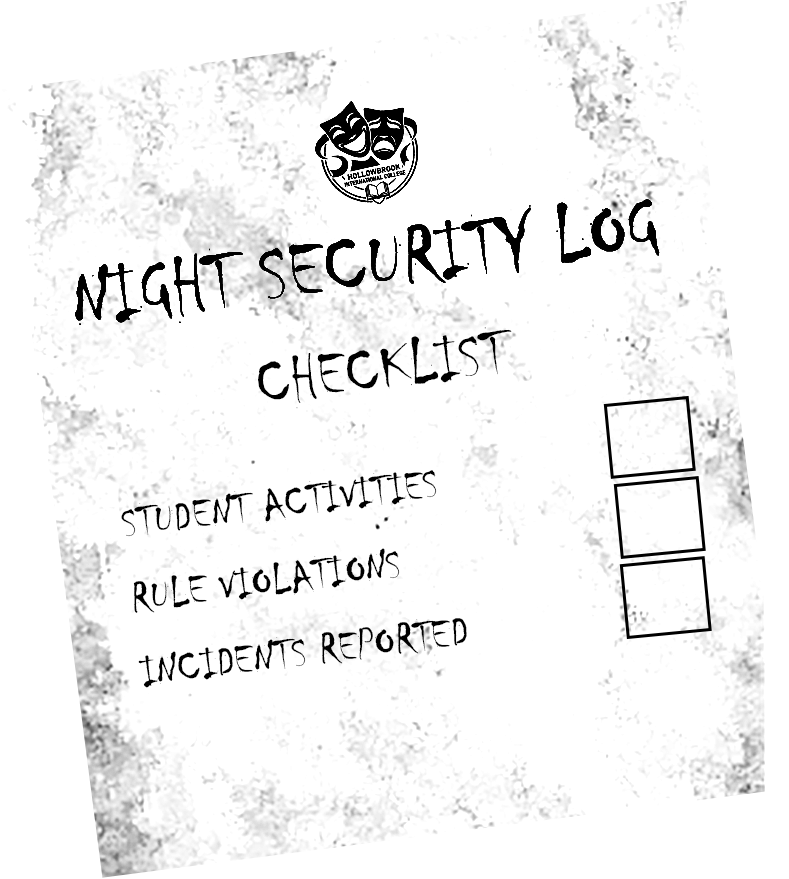
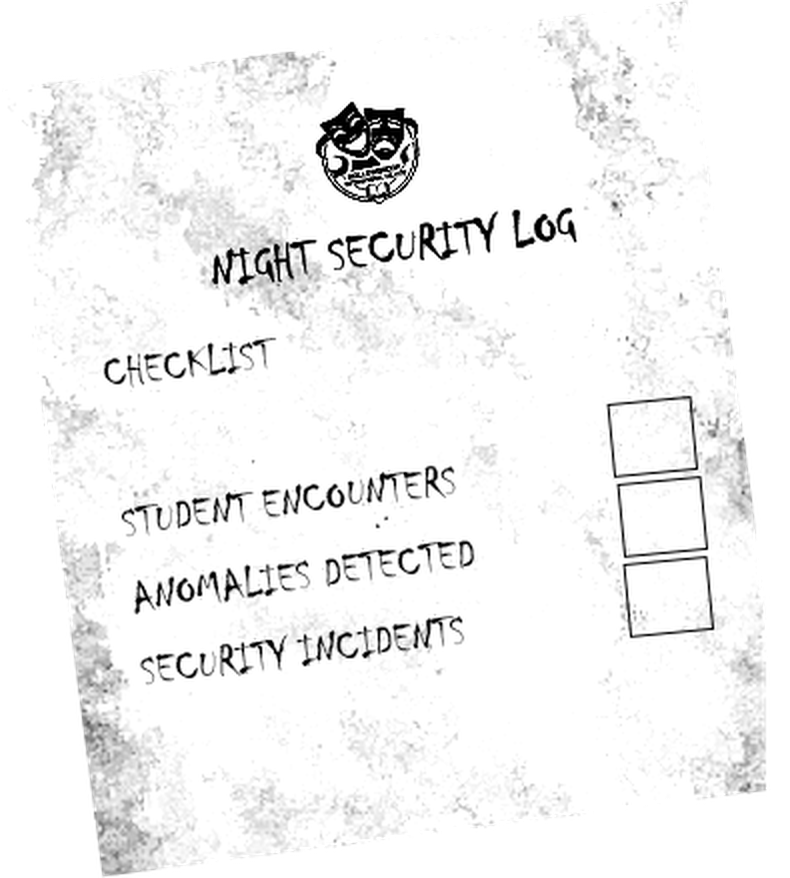
Rules and Security Log props use the new art, the sheets use the flat papers
The desk props are now Rules.png and SecurityLog_1.png (sec_rules_prop, sec_log_prop), drawn without
stretching and without extra tilt because the pictures are already tilted. Clicking them opens
Rules Paper.png and SecurityLog.png (doubled in size so it matches the sharpness of the rules paper).
The three log boxes sit on the squares printed on the new paper, the typed slip is a little taller,
and the base rules text is shorter so the night's own rules are not pushed out of view.

Changed region(s): [[0.0913, 0.123, 0.8517, 0.4613], [0.1521, 0.5228, 0.6084, 0.7995], [0.7605, 0.4305, 0.9125, 0.738]]

diff --git a/Assets/_Project/Scripts/Checkpoint/CheckpointView.Overlays.cs b/Assets/_Project/Scripts/Checkpoint/CheckpointView.Overlays.cs
@@ -83,10 +83,10 @@ namespace Hollowbrook.Checkpoint
         // the player counts what they notice. Left click counts up, right click counts down. It is only a
         // record for the experience: nothing reads it. Each box is a plain object under OverlayLog/paper, so
         // when the paper art changes the boxes can simply be moved in the scene. Centres are fractions of the
-        // paper picture, measured on the 789x879 art.
+        // paper picture, measured on the SecurityLog art (789x879 after the 2x cut).
         private readonly Text[] _logCounts = new Text[GameSession.LogEntries];
         private static readonly Vector2[] LogBoxCentres =
-            { new Vector2(0.825f, 0.497f), new Vector2(0.830f, 0.588f), new Vector2(0.843f, 0.679f) };
+            { new Vector2(0.822f, 0.498f), new Vector2(0.836f, 0.589f), new Vector2(0.848f, 0.680f) };
         private static readonly string[] LogBoxNames = { "student_encounters", "anomalies_detected", "security_incidents" };
 
         private void BuildLogBoxes()
@@ -162,10 +162,7 @@ namespace Hollowbrook.Checkpoint
         private void RefreshNotes()
         {
             var sb = new StringBuilder();
-            sb.Append("BASE RULES - Every person presents a Student ID and record form.\n");
-            sb.Append("Verify: ID format (HB-YYYY-NNNN) · photo vs. the person · expiration · year level · course/program · Regular/Transferee status · record name.\n");
-            sb.Append("Ask which classroom they are going to, then check the answer against their file in the drawer. Decisions are permanent.\n");
-            sb.Append("Compare the face at the window with the ID photo yourself - the desk keeps no appearance form.\n\n");
+            sb.Append("BASE RULES - Check every ID against the file in the drawer: number format, photo, expiry, year, course, status, name. Ask where they are going and check that too. Decisions are permanent.\n\n");
             if (_shift != null) { sb.Append(_shift.RuleNoteAddendum).Append('\n'); }
             _notesText.text = sb.ToString();
         }

diff --git a/Assets/_Project/Scripts/Checkpoint/CheckpointView.Decision.cs b/Assets/_Project/Scripts/Checkpoint/CheckpointView.Decision.cs
@@ -72,7 +72,7 @@ namespace Hollowbrook.Checkpoint
             // is manual: documents, floor files and questions.)
             // the two desk papers are PROPS: the kit's printed sheets lying on the desk at
             // the concept art's angles, clickable to open their overlay sheet
-            _recordsBtn = PaperProp("records", "sec_log_paper",
+            _recordsBtn = PaperProp("records", "sec_log_prop",
                 () => { RefreshRecords(); ToggleOverlay(_recordsRoot); }, L.UtilityRecords, L.TiltLog);
             Reg("records", _recordsBtn, L.UtilityRecords);
             // the mockup's inline college map: a panel-button (click still opens the full
@@ -123,7 +123,7 @@ namespace Hollowbrook.Checkpoint
                 L.Place(tape.rectTransform, new L.Region(tI == 0 ? -8f : 244f, -6f, 46f, 14f));
                 tape.rectTransform.localEulerAngles = new Vector3(0, 0, tI == 0 ? 8f : -8f);
             }
-            _notesBtn = PaperProp("notes", "sec_rules_paper",
+            _notesBtn = PaperProp("notes", "sec_rules_prop",
                 () => ToggleOverlay(_notesRoot), L.UtilityNotes, L.TiltRules);
             Reg("notes", _notesBtn, L.UtilityNotes);
 
@@ -142,6 +142,7 @@ namespace Hollowbrook.Checkpoint
             if (sp != null) { img.sprite = sp; img.color = Color.white; }
             else img.color = UIFactory.Paper;
             img.raycastTarget = true;
+            img.preserveAspect = true;   // the prop pictures are narrower than their desk slot: never stretch them
             var b = rt.gameObject.GetOrAdd<UnityEngine.UI.Button>();
             b.targetGraphic = img;
             b.onClick.AddListener(() => onClick());

diff --git a/Assets/_Project/Scripts/Checkpoint/CheckpointLayout.cs b/Assets/_Project/Scripts/Checkpoint/CheckpointLayout.cs
@@ -12,7 +12,7 @@ namespace Hollowbrook.Checkpoint
     {
         // Paper tilts off the concept art (degrees, +z = counter-clockwise on screen): the
         // documents lie on the desk, they are not pinned to the grid.
-        public const float TiltCard = -2f, TiltSlip = -2f, TiltLog = -4f, TiltRules = 3f;
+        public const float TiltCard = -2f, TiltSlip = -2f, TiltLog = 0f, TiltRules = 0f;   // the two paper props are drawn already tilted
         // The printed card / slip art keeps its design space inside a scaled art layer.
         public const float CardArtW = 320f, CardArtH = 220f, SlipArtW = 200f, SlipArtH = 120f;
         // Desk footprint of the two held papers = art design space x these scales, and the
@@ -241,8 +241,8 @@ namespace Hollowbrook.Checkpoint
             // the printed ink; the LIVE typed body rides on an addendum slip pinned over
             // the sheet's blank bottom band (the paper keeps its aspect and its art),
             // and the close pill sits on the sheet's blank top-right corner
-            public static readonly Region PaperSlip = new Region(405, 596, 470, 116);
-            public static readonly Region PaperSlipBody = new Region(14, 10, 442, 96);
+            public static readonly Region PaperSlip = new Region(405, 594, 470, 118);
+            public static readonly Region PaperSlipBody = new Region(14, 8, 442, 102);
             public static readonly Region PaperClose = new Region(688, 42, 140, 36);
 
             // day banner: night label on top, queue readout underneath

diff --git a/Tools/prep_securityroom_art.py b/Tools/prep_securityroom_art.py
@@ -124,15 +124,19 @@ def main():
         "sec_cabinet1":      "6. Registry Terminal/Cabinet1.png",
         "sec_cabinet2":      "6. Registry Terminal/Cabinet2.png",
         "sec_stamp":         "7. Accept & Decline/Stamp.png",
+        # the desk props are the dark, tilted pictures; clicking one opens the flat paper
+        "sec_rules_prop":    "7. Tonight Log & Rules/Rules.png",
         "sec_rules_paper":   "7. Tonight Log & Rules/Rules Paper.png",
-        "sec_rules_dark":    "7. Tonight Log & Rules/Rules.png",
-        "sec_log_paper":     "7. Tonight Log & Rules/Tonights Log Paper.png",
-        "sec_log_dark":      "7. Tonight Log & Rules/Tonights Log.png",
-        "sec_log_rules":     "7. Tonight Log & Rules/TL and R.png",
+        "sec_log_prop":      "7. Tonight Log & Rules/SecurityLog_1.png",
+        "sec_log_paper":     "7. Tonight Log & Rules/SecurityLog.png",
         "sec_bubble":        "8. Dialouge Box/Dialouge.png",
     }
     for key, rel in CROP.items():
         im = load(rel)
+        if key == "sec_log_paper":
+            # exported small (395 wide) next to the 789 wide rules paper: double it smoothly so the
+            # two sheets look equally sharp when they open
+            im = im.resize((im.width * 2, im.height * 2), Image.LANCZOS)
         if key == "sec_bubble":
             # the kit master ships padded with transparent margins; trim to the art so the
             # 9-slice borders in ProceduralArt.FileBorders measure the real tail and edges

diff --git a/Tools/gen_asset_manifest.py b/Tools/gen_asset_manifest.py
@@ -158,8 +158,10 @@ SEC = [
     ("sec_cabinet1",         "kit", "P0", "cropped cabinet face: FLOOR FILES station skin"),
     ("sec_cabinet2",         "kit", "P0", "cropped drawer unit: file-drawer body skin"),
     ("sec_stamp",            "kit", "P0", "cropped hand stamp: the draggable verdict stamp body"),
-    ("sec_rules_paper",      "kit", "P2", "cropped tilted paper: RULES NOTE overlay skin"),
-    ("sec_log_paper",        "kit", "P2", "cropped tilted paper: TONIGHT'S LOG overlay skin"),
+    ("sec_rules_prop",       "kit", "P2", "dark tilted rules paper on the desk (click opens sec_rules_paper)"),
+    ("sec_rules_paper",      "kit", "P2", "flat RULES NOTE overlay skin"),
+    ("sec_log_prop",         "kit", "P2", "dark tilted security log on the desk (click opens sec_log_paper)"),
+    ("sec_log_paper",        "kit", "P2", "flat NIGHT SECURITY LOG overlay skin, the boxes are placed on its printed squares"),
     ("sec_bubble",           "kit", "P0", "speech box, 9-sliced (left tail + rough edge preserved): bubble + dialogue panel skin"),
 ]
 

diff --git a/Tools/FlowCheck/Program.cs b/Tools/FlowCheck/Program.cs
@@ -4441,8 +4441,8 @@ namespace FlowCheck
             "sec_stamp_circle_allow", "sec_stamp_circle_deny", "sec_icon_accept",
             "sec_icon_decline", "sec_folder_tab1", "sec_icon_patrol",
             "sec_icon_endshift", "sec_qpanel", "sec_arrow_right", "sec_cabinet1",
-            "sec_cabinet2", "sec_stamp", "sec_rules_paper",
-            "sec_log_paper", "sec_bubble",
+            "sec_cabinet2", "sec_stamp", "sec_rules_prop", "sec_rules_paper",
+            "sec_log_prop", "sec_log_paper", "sec_bubble",
         };
 
         private static int Idx(Transform t) => t != null ? t.GetSiblingIndex() : -1;
